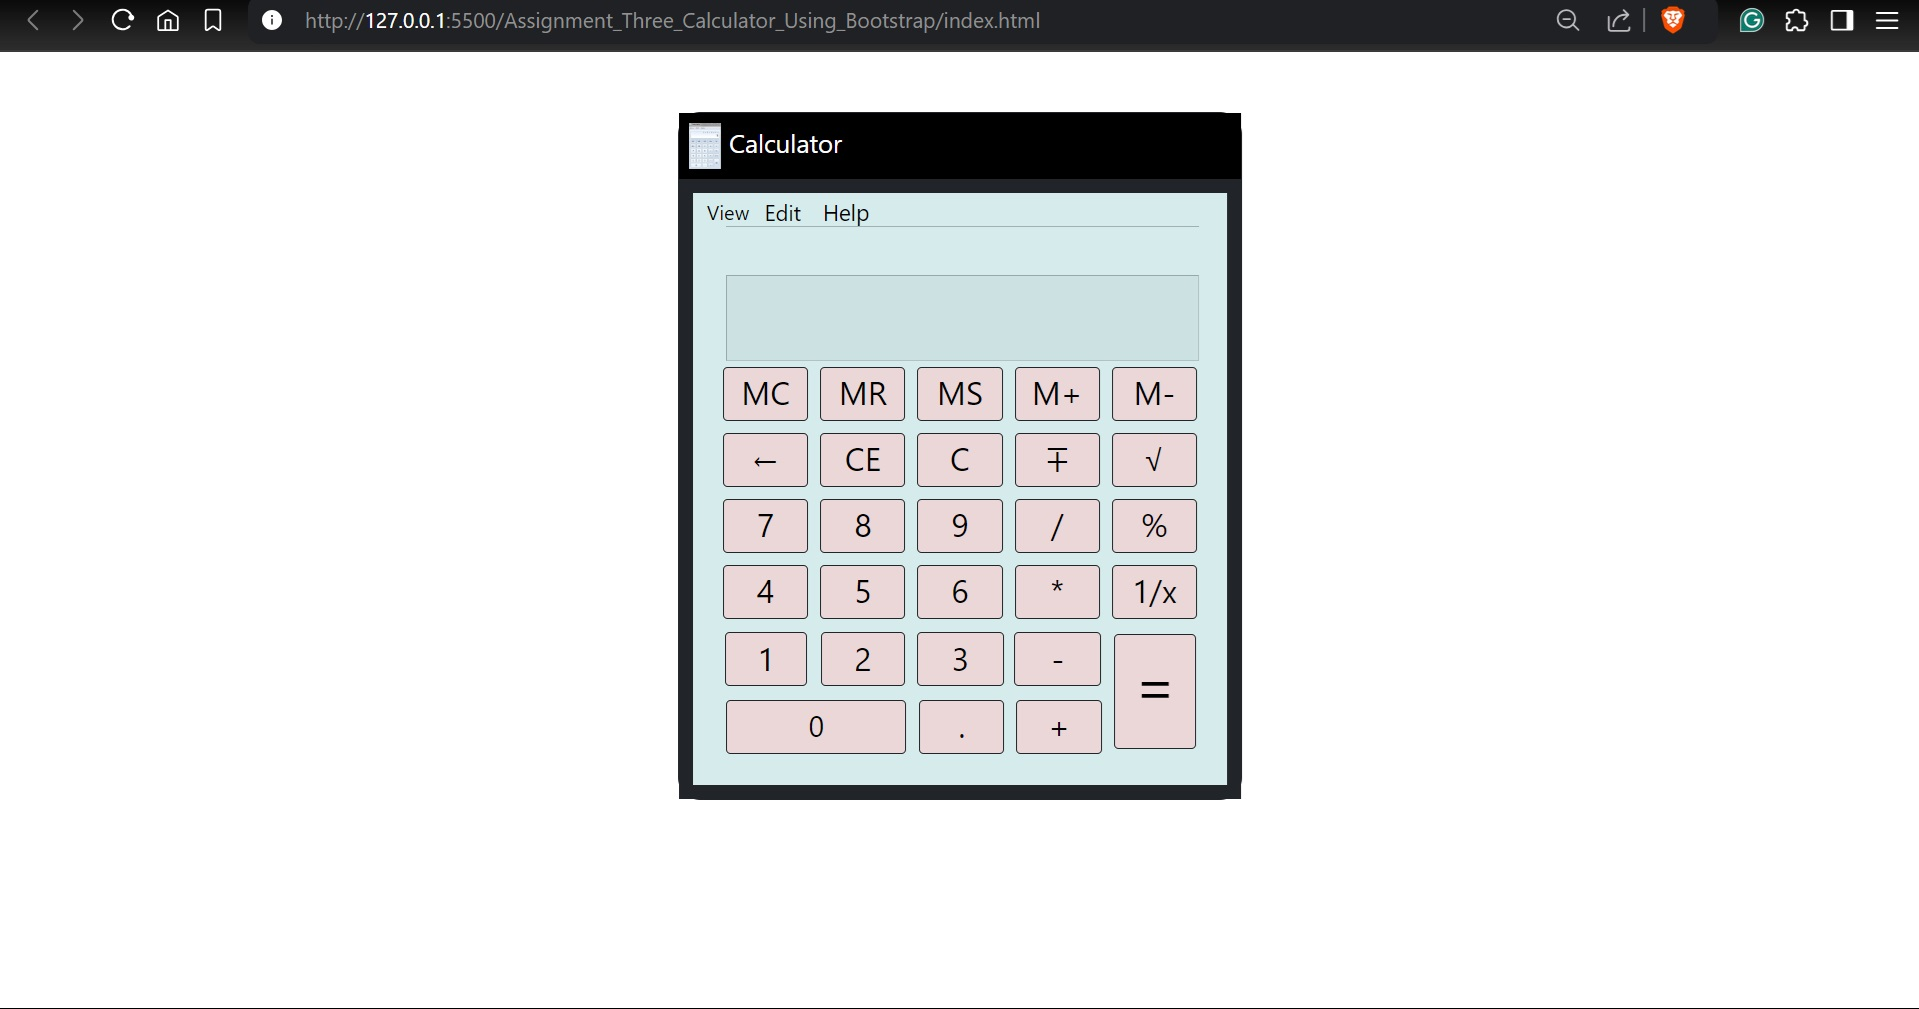
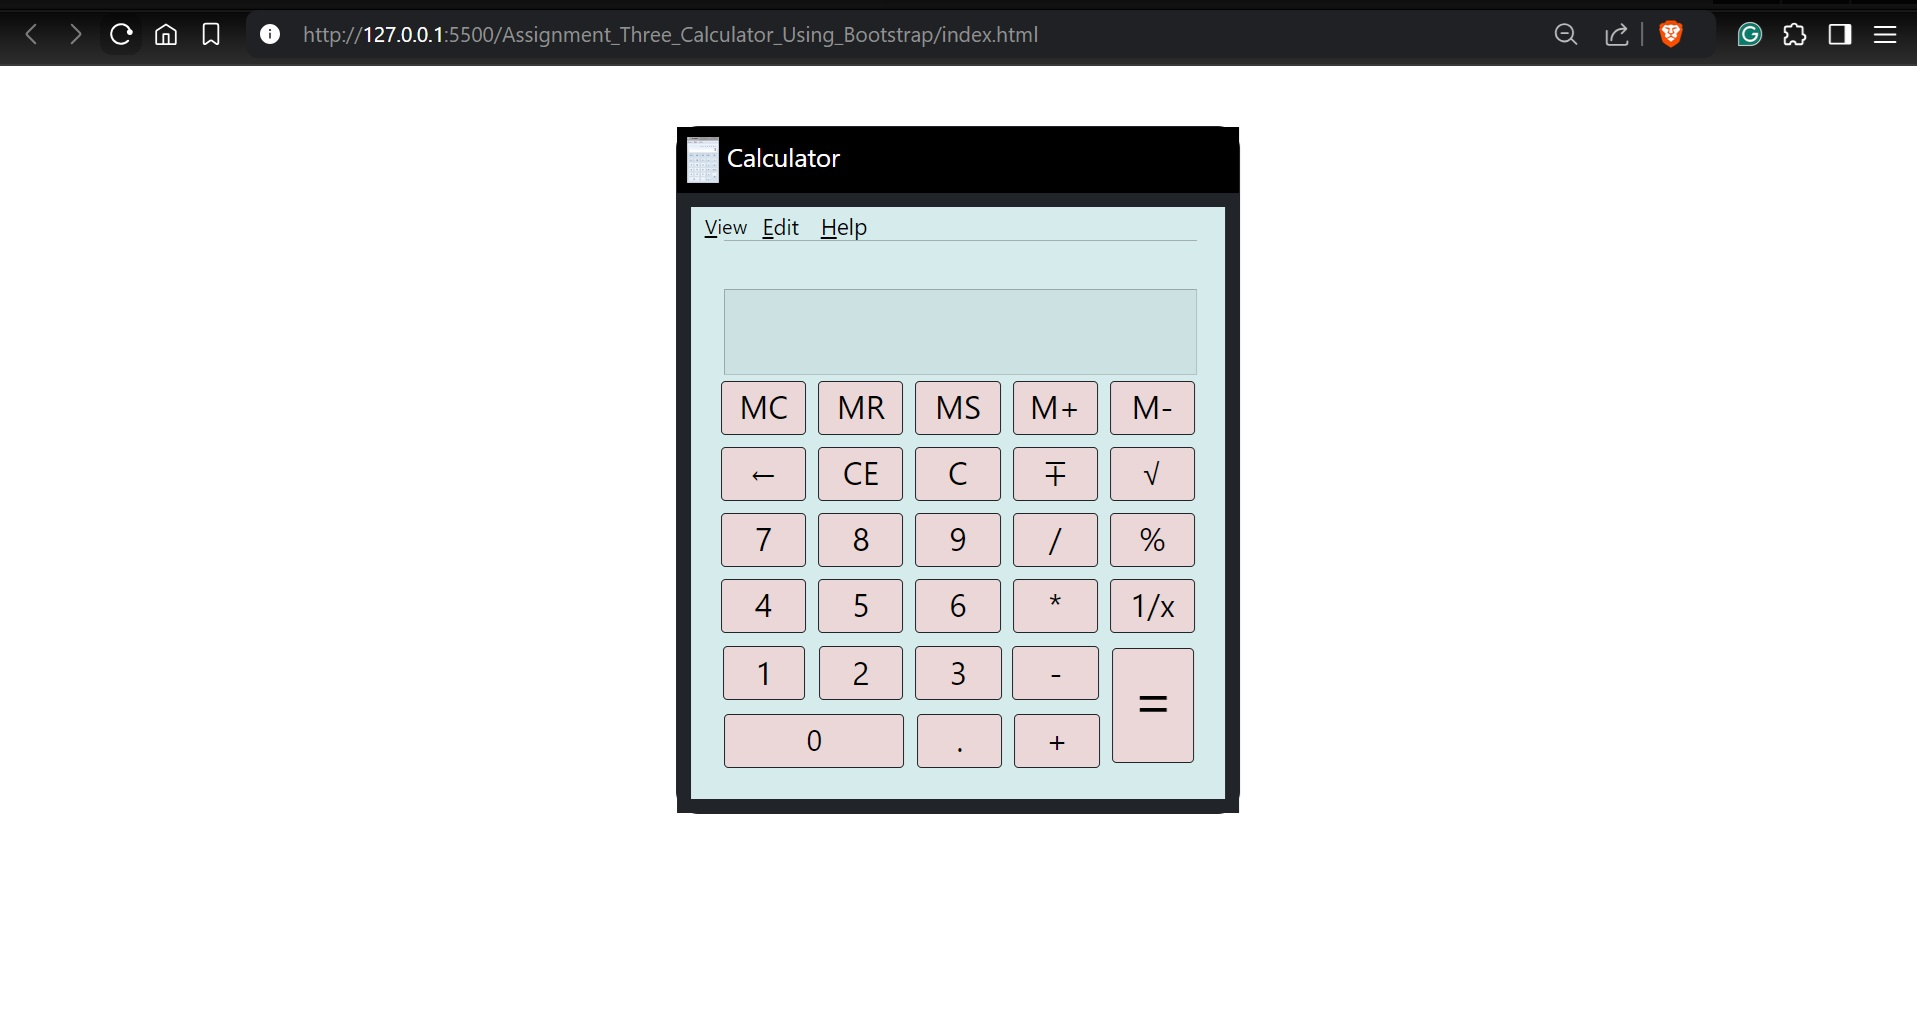
changed calculatro_output apperence and removed localstorage in calculator

Changed region(s): [[0.0, 0.0, 1.0, 0.2458], [0.3693, 0.338, 0.6155, 0.7374], [0.3385, 0.7681, 0.6463, 0.7988]]

diff --git a/Assignment_Three_Calculator_Using_Bootstrap/script/script.js b/Assignment_Three_Calculator_Using_Bootstrap/script/script.js
@@ -1,4 +1,5 @@
 const inputBoxDisplay = document.getElementById('inputBox');
+let memory = 0; 
 
 function handleInput(value) {
     const lastChar = inputBoxDisplay.value.slice(-1);
@@ -20,32 +21,25 @@ function clearEntry() {
 }
 
 function clearMemory() {
-    localStorage.removeItem('memory');
+    memory = 0;
     inputBoxDisplay.value = '';
 }
 
 function memoryRecall() {
-    const memory = localStorage.getItem('memory');
-    if (memory) {
-        inputBoxDisplay.value = memory;
-    }
+    inputBoxDisplay.value = memory.toString();
 }
 
 function memoryStore() {
-    localStorage.setItem('memory', inputBoxDisplay.value);
+    memory = parseFloat(inputBoxDisplay.value) || 0;
     inputBoxDisplay.value = '';
 }
 
 function memoryPlus() {
-    const memory = parseFloat(localStorage.getItem('memory')) || 0;
-    const display = parseFloat(inputBoxDisplay.value) || 0;
-    localStorage.setItem('memory', memory + display);
+    memory += parseFloat(inputBoxDisplay.value) || 0;
 }
 
 function memoryMinus() {
-    const memory = parseFloat(localStorage.getItem('memory')) || 0;
-    const display = parseFloat(inputBoxDisplay.value) || 0;
-    localStorage.setItem('memory', memory - display);
+    memory -= parseFloat(inputBoxDisplay.value) || 0;
 }
 
 function calculate() {

diff --git a/Assignment_Three_Calculator_Using_Bootstrap/index.html b/Assignment_Three_Calculator_Using_Bootstrap/index.html
@@ -19,9 +19,9 @@
                     <div class="row">
                         <div class="container position-relative">
                             <div class="position-absolute top-0 start-0 mt-2 ms-2">
-                                <button class="btn viewButton btn-secondary btn-sm">View</button>
-                                <button class="btn editButton btn-secondary btn-sm">Edit</button>
-                                <button class="btn helpButton btn-secondary btn-sm">Help</button>
+                                <button class="btn viewButton btn-secondary btn-sm"><u>V</u>iew</button>
+                                <button class="btn editButton btn-secondary btn-sm"><u>E</u>dit</button>
+                                <button class="btn helpButton btn-secondary btn-sm"><u>H</u>elp</button>
                             </div>
                             <div class="blackLine">
                                 <hr class="mt-5">
